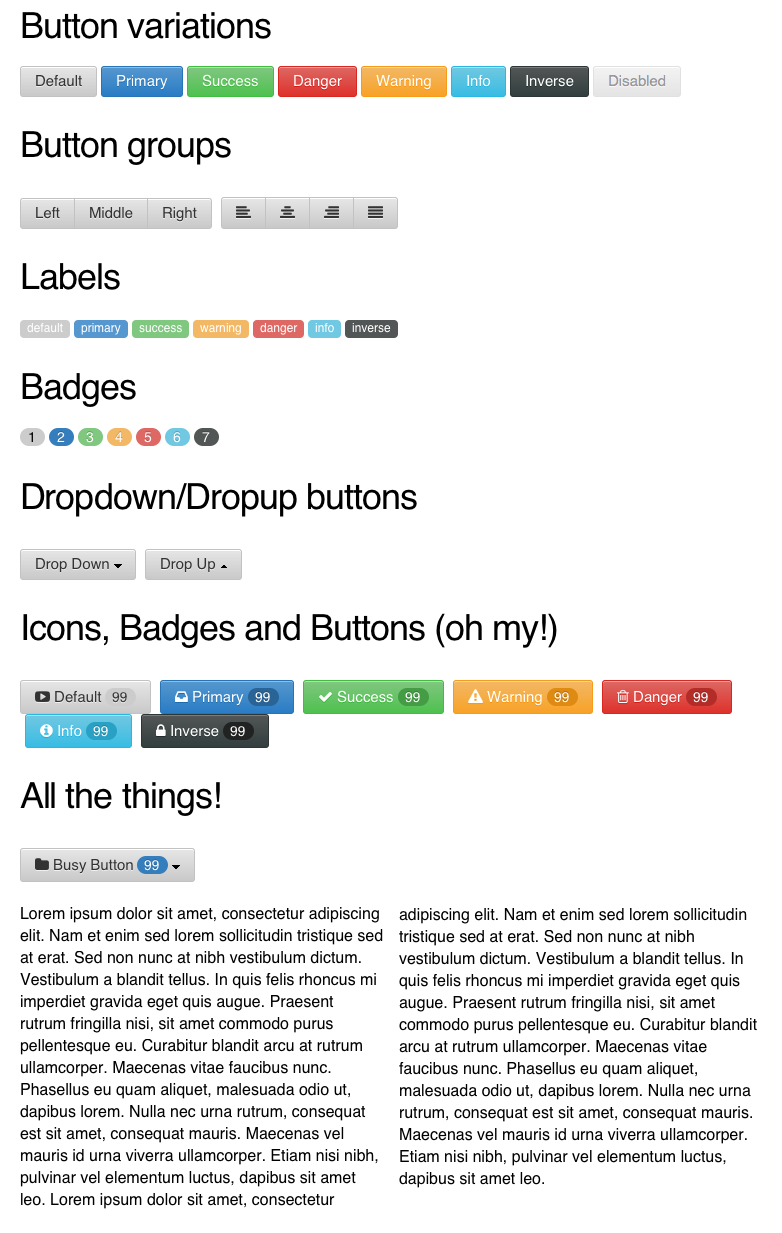
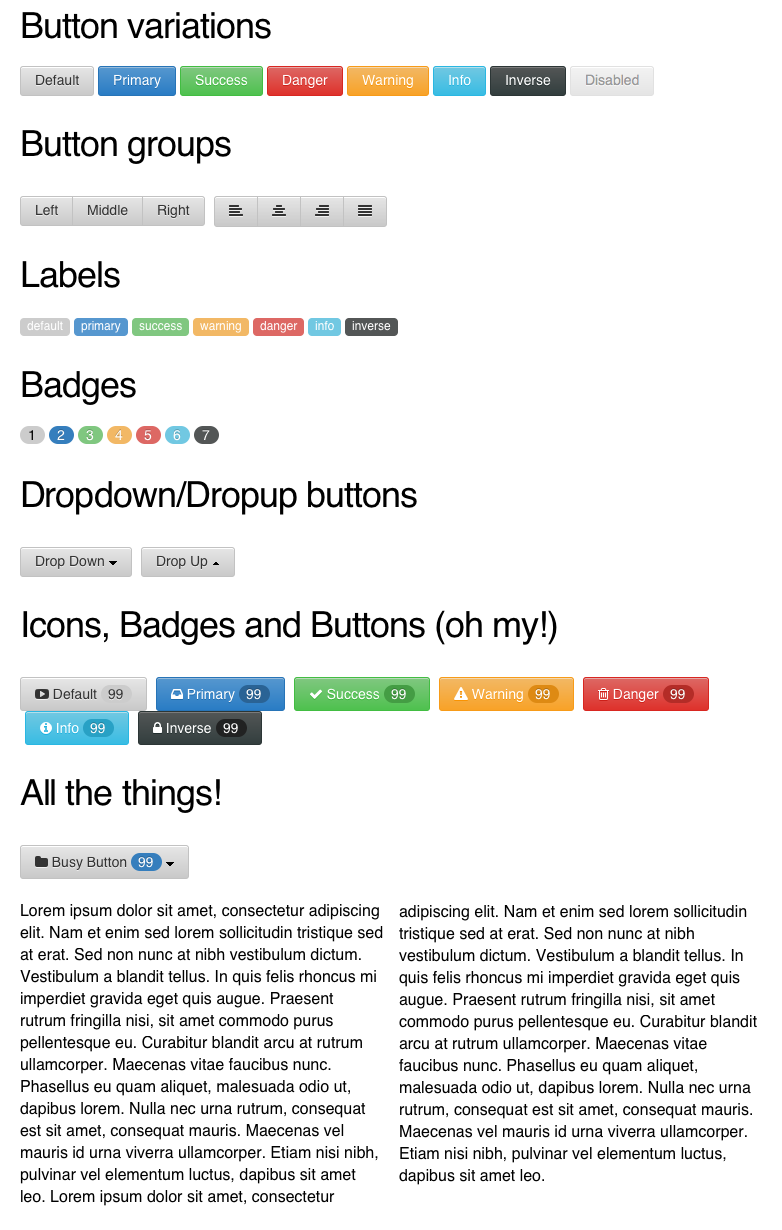
Make smoketest task work from root and dump images into /tmp which isn't committed

diff --git a/tests/css/testsuite.js b/tests/css/testsuite.js
@@ -3,13 +3,15 @@
 	Initialise CasperJs
 */
 
-phantom.casperPath = './libs/phantomcss/CasperJs';
+var basePath = './libs/phantomcss/';
+
+phantom.casperPath = basePath + 'CasperJs';
 phantom.injectJs(phantom.casperPath + '/bin/bootstrap.js');
 phantom.injectJs('jquery.js');
 
 var casper = require('casper').create({
 	viewportSize: {
-		width: 1027,
+		width: 800,
 		height: 800
 	}
 });
@@ -18,12 +20,12 @@ var casper = require('casper').create({
 	Require and initialise PhantomCSS module
 */
 
-var phantomcss = require('./libs/phantomcss/phantomcss.js');
-var url = startServer('./libs/phantomcss/demo/coffeemachine.html');
+var phantomcss = require(basePath + 'phantomcss.js');
+var url = 'http://localhost:8000/lexicon';
 
 phantomcss.init({
-	screenshotRoot: '/Users/Stanton/Localhost/pulsar/tests/css/screenshots',
-	failedComparisonsRoot: '/Users/Stanton/Localhost/pulsar/tests/css/failures'
+	screenshotRoot: './tmp/screenshots',
+	failedComparisonsRoot: './tmp/failures'
 });
 
 /*
@@ -32,48 +34,105 @@ phantomcss.init({
 
 casper.
 	start( url ).
-	then(function(){
-		phantomcss.screenshot('#coffee-machine-wrapper', 'open coffee machine button');
+	then(function() {
+		phantomcss.screenshot('#tab_1', 'typography');
 	}).
-	then(function(){
-		casper.click('#coffee-machine-button');
-		
-		// wait for modal to fade-in 
+	then(function() {
+		casper.click('a[href="#tab_2"]');
 
-		casper.waitForSelector('#myModal:not([style*="display: none"])',
+		casper.waitForSelector('#tab_2.is-active',
 			function success(){
-				phantomcss.screenshot('#myModal', 'coffee machine dialog');
+				phantomcss.screenshot('#tab_2', 'buttons');
 			},
 			function timeout(){
-				casper.test.fail('Should see coffee machine');
+				casper.test.fail('Should see buttons tab');
 			}
 		);
-
 	}).
-	then(function(){
-		casper.click('#cappuccino-button');
-		phantomcss.screenshot('#myModal', 'cappuccino success');
-	}).
-	then(function(){
-		casper.click('#close');
+	then(function() {
+		casper.click('a[href="#tab_3"]');
 
-		// wait for modal to fade-out
-
-		casper.waitForSelector('#myModal[style*="display: none"]',
+		casper.waitForSelector('#tab_3.is-active',
 			function success(){
-				phantomcss.screenshot('#coffee-machine-wrapper', 'coffee machine close success');
+				phantomcss.screenshot('#tab_3', 'forms');
 			},
 			function timeout(){
-				casper.test.fail('Should be able to walk away from the coffee machine');
+				casper.test.fail('Should see forms tab');
 			}
 		);
-	});
+	}).
+	then(function() {
+		casper.click('a[href="#tab_4"]');
 
-/*
-	End tests and compare screenshots
-*/
+		casper.waitForSelector('#tab_4.is-active',
+			function success(){
+				phantomcss.screenshot('#tab_4', 'flash messages');
+			},
+			function timeout(){
+				casper.test.fail('Should see flash messages tab');
+			}
+		);
+	}).
+	then(function() {
+		casper.click('a[href="#tab_5"]');
 
-casper.
+		casper.waitForSelector('#tab_5.is-active',
+			function success(){
+				phantomcss.screenshot('#tab_5', 'modals');
+			},
+			function timeout(){
+				casper.test.fail('Should see modals tab');
+			}
+		);
+	}).
+	then(function() {
+		casper.click('a[href="#tab_6"]');
+
+		casper.waitForSelector('#tab_6.is-active',
+			function success(){
+				phantomcss.screenshot('#tab_6', 'tooltips');
+			},
+			function timeout(){
+				casper.test.fail('Should see tooltips tab');
+			}
+		);
+	}).
+	then(function() {
+		casper.click('a[href="#tab_7"]');
+
+		casper.waitForSelector('#tab_7.is-active',
+			function success(){
+				phantomcss.screenshot('#tab_7', 'popovers');
+			},
+			function timeout(){
+				casper.test.fail('Should see popovers tab');
+			}
+		);
+	}).
+	then(function() {
+		casper.click('a[href="#tab_8"]');
+
+		casper.waitForSelector('#tab_8.is-active',
+			function success(){
+				phantomcss.screenshot('#tab_8', 'tables');
+			},
+			function timeout(){
+				casper.test.fail('Should see tables tab');
+			}
+		);
+	}).
+	then(function() {
+		casper.click('a[href="#tab_9"]');
+
+		casper.waitForSelector('#tab_9.is-active',
+			function success(){
+				phantomcss.screenshot('#tab_9', 'progress bars');
+			},
+			function timeout(){
+				casper.test.fail('Should see progress bars tab');
+			}
+		);
+	}).
 	then( function now_check_the_screenshots(){
 		phantomcss.compareAll();
 	}).
@@ -81,22 +140,3 @@ casper.
 		console.log('\nTHE END.');
 		phantom.exit(phantomcss.getExitStatus());
 	});
-
-/*
-	Fluff
-*/
-
-function startServer(path){
-	// Use PhantomJs server to server web page, demo purposes only
-	var fs = require('fs');
-	var server = require('webserver').create();
-	var html = fs.read(path);
-	
-	var service = server.listen(1337, function(request, response) {
-		response.statusCode = 200;
-		response.write(html);
-		response.close();
-	});
-
-	return 'http://localhost:1337';
-}

diff --git a/Gruntfile.js b/Gruntfile.js
@@ -123,7 +123,7 @@ module.exports = function(grunt) {
 
     clean: {
       dist: ['dist'],
-      testcss: ['libs/phantomcss/failures/*']
+      testcss: ['tmp/failures/*']
     },
 
     bump: {
@@ -142,7 +142,7 @@ module.exports = function(grunt) {
 
     exec: {
       phantomcss: {
-        cmd: 'cd libs/phantomcss; sudo phantomjs demo/testsuite.js; cd ../../'
+        cmd: 'sudo phantomjs tests/css/testsuite.js'
       }
     }
 

diff --git a/libs/phantomcss/phantomcss.js b/libs/phantomcss/phantomcss.js
@@ -264,7 +264,7 @@ function compareAll(exclude){
 								});
 
 							}, function(){},
-							10000
+							10000000000000
 						);
 					} else {
 						_onPass(test);
@@ -282,7 +282,7 @@ function compareAll(exclude){
 		}, function(){
 			_onComplete(tests, fails, errors);
 		}, function(){},
-		10000);
+		10000000000000);
 	});
 }
 
